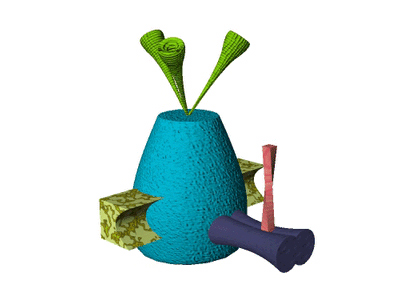
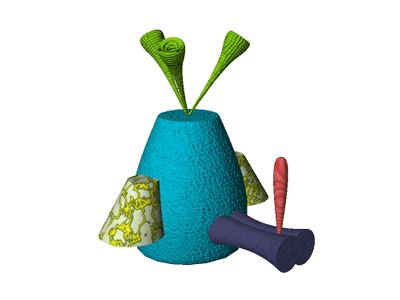
new stimuli

diff --git a/exp1/exp1README.md b/exp1/exp1README.md
@@ -83,26 +83,36 @@ Practice trials will be 5 or 10 trials (it depends by participant's confidence) 
 ![Timeline expe1](script/learningRoutines/timelineLearning.png)
 
 
-Testing 
+Testing (15 min in total)
 
-Learning and generalization will be assessed through two tasks.
+Learning and generalization will be assessed through three tasks.
+These tasks are the same as described in Ramscar (2010) and Vujovic et al., 2019 and it aims at probing the ability of the participants to generalise the cue-outcome association to novel exemplars. 
+However, the number of trials is x6 times higher than reported in Vujovic et al., 2019. 
+Unfortunately I couldn't find the same info for Ramscar 2010.
 
-The first task is a *Generalization task* (around 5 min). 
 
-This task is the same as described in Ramscar (2010) and Vujovic et al., 2019 and it aims at probing the ability of the participants to generalise the cue-outcome association to novel exemplars. 
+- The first task is a *Generalization task I* (around 5 min), from label to pictures matching task.
 
-This is a speeded three alternative forced-choice task. 
+- The second task is a *Generalization task II* (around 5 min), from picture to labels matching task.
 
-Half the participants matched an unseen exemplar to the three category labels, and half matched a label to four previously unseen 
-exemplars drawn from each category. 
+Participants match a label to four previously unseen exemplars drawn from each category in task I, or an match unseen exemplar to the three category labels in task II, in a speeded 3-AFC.
+Order of these two tasks is counterbalanced across participants.
 
-To limit participants’ ability to learn by contrasting between similar exemplars during testing, testing trials are composed either of all low-frequency or of all high-frequency exemplars plus control exemplars. 
-Control exemplars are unrelated and unseen objects. Participants are instructed to respond as quickly as they could (3500ms timeout). 
-Each high frequency subcategory has 6 exemplars per category (6 x 4, three experimental and one control), while low frequency subcategory has 2 exemplars per category (2 x 4, three experimental and one control). 
-Each subcategory (high/low frequency) will be tested X times each (I’m debugging Masa’s experiment as I can't find this info in her thesis, my fault probably).
+To limit participants’ ability to learn by contrasting between similar exemplars during testing, testing trials are composed either of all low-frequency or of all high-frequency exemplars separately. 
+Participants are instructed to respond as quickly as they could (3500ms timeout). 
+Each high frequency subcategory has 6 exemplars per category (6 x 3), while low frequency subcategory has 2 exemplars per category (2 x 3). 
+For each generalization task, each subcategory (high/low frequency) will be tested 3 times each, therefore we will have 48 trials per task. 
+If there will be no differences between the two generalization tasks, we can merge them together and have 96 trials per participant.
+
+Timelines of the tasks:
 
 ![Stimuli expe1](script/testing/generalization_HF.png)
 ![Stimuli expe1](script/testing/generalization_LF.png)
+
+Stimuli of the generalization tasks I and II:
+
+Participants are presented with all trained labels, while pictures are novel/unseen fribbles with features matching one of the label only.
+This makes up to a novel dataset of 48 unseen fribbles, i.e., with matching features but placed in a different order.
 
 The final task is a *Contingency judgement task* (5 min). This task is inspired by Kopp and Wolff, 2000 *Biological Psychology* where authors demonstrated that event-related potentials in a human contingency task
 indicate that learning is error-driven, i.e., resulting from cue competition.
